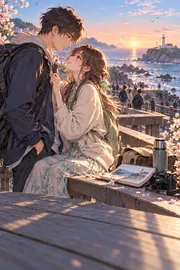
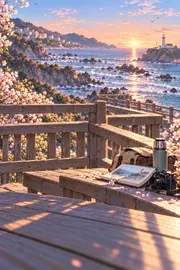
Keep shared cafe and seaside scenes free of unidentified characters

diff --git a/games/campus-heart-simulator-58ef1c9eb851b73b/app.js b/games/campus-heart-simulator-58ef1c9eb851b73b/app.js
@@ -41,7 +41,7 @@ if(modal==='partnercheck')h='<h2>认真协商关系</h2><p>确认独占需要该
 if(modal==='journal')h='<h2>我的学年手记</h2><p>已读主线'+state.mainDone.length+'/36，个人线'+state.route.reduce((a,b)=>a+b,0)+'/40。作品'+state.craft+'，自主'+state.agency+'。只统计本存档阅读与选择，不用等待凑时长。</p><div class="journal">'+state.log.map(x=>'<p>✧ '+esc(x)+'</p>').join('')+'</div>'+close;
 if(modal==='chapters')h='<h2>已读章节回看</h2><p>只开放已经完成的章节。回看可选择另一种回应，但不会更改真实存档或重复领取收益。</p><div class="chapter-list">'+state.completed.map(id=>button((id.startsWith('r')?PEOPLE[+id[1]].name+'：':'第'+Number(id.slice(1))+'周：')+byId(id).title,'replay:'+id,'light')).join('')+'</div>'+close;
 if(modal==='album')h='<h2>回忆图鉴 '+state.unlocked.length+'/20</h2><div class="album-grid">'+ART_IDS.map(id=>`<button data-cmd="art:${id}" ${state.unlocked.includes(id)?'':'disabled'}><img src="art/${id}-thumb.webp" alt="${esc(ART_NAMES[id])}" loading="lazy"><span>${state.unlocked.includes(id)?ART_NAMES[id]:'未解锁'}</span></button>`).join('')+'</div>'+close;
-if(modal==='offline')h='<h2>离线阅读与完整图包</h2><p>首屏只预缓存程序、缩略图和图书馆场景。已看过的大图会保留在当前浏览器；想在断网后看到尚未进入的新场景，请先下载完整20张图。</p><p id="cache-progress">'+esc(downloadProgress||'已缓存 '+offlineCount+'/20 张正式插画')+'</p>'+button(busy?'正在缓存…':'下载 / 检查完整离线图包','download', '',busy)+'<p>缓存仍可能被浏览器清理；存档与图片缓存不同，重要进度请另行导出。</p>'+close;
+if(modal==='offline')h='<h2>离线阅读与完整图包</h2><p>首屏预缓存程序、缩略图与少量必要场景。已看过的大图会保留在当前浏览器；想在断网后看到尚未进入的新场景，请先下载完整20张图。</p><p id="cache-progress">'+esc(downloadProgress||'已缓存 '+offlineCount+'/20 张正式插画')+'</p>'+button(busy?'正在缓存…':'下载 / 检查完整离线图包','download', '',busy)+'<p>缓存仍可能被浏览器清理；存档与图片缓存不同，重要进度请另行导出。</p>'+close;
 return `<div class="modal"><section class="sheet">${h}</section></div>`}
 function toast(text){document.querySelector('.toast')?.remove();const el=document.createElement('div');el.className='toast';el.textContent=text;app.append(el);setTimeout(()=>el.remove(),4000)}
 function downloadJSON(obj,name){const a=document.createElement('a');a.href=URL.createObjectURL(new Blob([typeof obj==='string'?obj:JSON.stringify(obj,null,2)],{type:'application/json'}));a.download=name;a.click();setTimeout(()=>URL.revokeObjectURL(a.href),1000)}

diff --git a/games/campus-heart-simulator-58ef1c9eb851b73b/sw.js b/games/campus-heart-simulator-58ef1c9eb851b73b/sw.js
@@ -1,4 +1,4 @@
-const CACHE='G148-campus-heart-2.0.0',FILES=["./", "index.html", "style.css", "content.js", "engine.js", "app.js", "manifest.webmanifest", "art/icon-192.png", "art/icon-512.png", "art/library.webp", "art/catalog.json", "art/library-thumb.webp", "art/court-thumb.webp", "art/music-thumb.webp", "art/quad-thumb.webp", "art/lake-thumb.webp", "art/festival-thumb.webp", "art/guyan-thumb.webp", "art/xingyao-thumb.webp", "art/cafe-thumb.webp", "art/winter-thumb.webp", "art/spring-thumb.webp", "art/seaside-thumb.webp", "art/lin-rain-thumb.webp", "art/zhou-night-thumb.webp", "art/shen-stage-thumb.webp", "art/dorm-thumb.webp", "art/station-thumb.webp", "art/graduation-thumb.webp", "art/gu-backstage-thumb.webp", "art/lu-photo-thumb.webp"];
+const CACHE='G148-campus-heart-2.0.0',BUILD='empty-common-scenes-2',FILES=["./", "index.html", "style.css", "content.js", "engine.js", "app.js", "manifest.webmanifest", "art/icon-192.png", "art/icon-512.png", "art/library.webp", "art/catalog.json", "art/library-thumb.webp", "art/court-thumb.webp", "art/music-thumb.webp", "art/quad-thumb.webp", "art/lake-thumb.webp", "art/festival-thumb.webp", "art/guyan-thumb.webp", "art/xingyao-thumb.webp", "art/cafe-thumb.webp", "art/winter-thumb.webp", "art/spring-thumb.webp", "art/seaside-thumb.webp", "art/lin-rain-thumb.webp", "art/zhou-night-thumb.webp", "art/shen-stage-thumb.webp", "art/dorm-thumb.webp", "art/station-thumb.webp", "art/graduation-thumb.webp", "art/gu-backstage-thumb.webp", "art/lu-photo-thumb.webp", "art/cafe.webp", "art/seaside.webp"];
 self.addEventListener('install',e=>e.waitUntil(caches.open(CACHE).then(c=>c.addAll(FILES)).then(()=>self.skipWaiting())));
 self.addEventListener('activate',e=>e.waitUntil(caches.keys().then(ks=>Promise.all(ks.filter(k=>k.startsWith('G148-campus-heart-')&&k!==CACHE).map(k=>caches.delete(k)))).then(()=>self.clients.claim())));
 self.addEventListener('fetch',e=>{if(e.request.method!=='GET'||!e.request.url.startsWith(self.registration.scope))return;e.respondWith(fetch(e.request).then(r=>{if(r.ok){const copy=r.clone();caches.open(CACHE).then(c=>c.put(e.request,copy))}return r}).catch(()=>caches.match(e.request)))});
